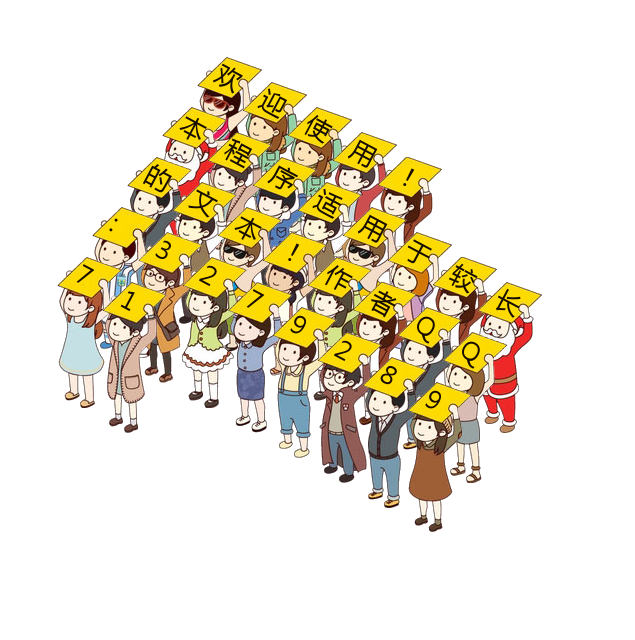
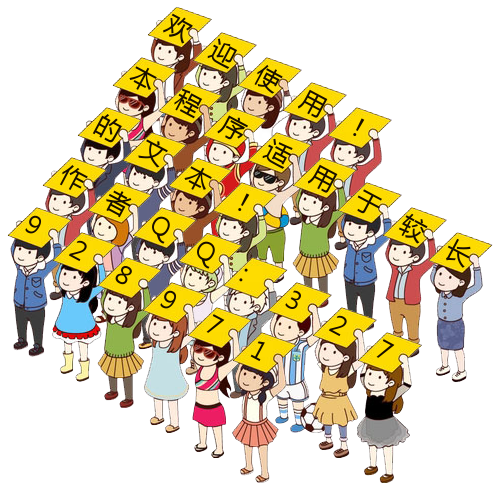
2.0.3.2202

diff --git a/index.php b/index.php
@@ -9,9 +9,10 @@
 // | Author: Jokin <327928971@qq.com>
 // +----------------------------------------------------------------------
 /*
-** Version: 2.0.3.2104
+** Version: 2.0.3.2202
 ** Issue:
-**      1、修正画布高度算法
+**      1、修正画布高度、宽度算法
+**      2、优化代码布局
 */
 if( isset($_POST['t']) && !empty($_POST['t']) ){
   define("IS_DEBUG",false);  // 是否开启调试模式
@@ -21,94 +22,93 @@ if( isset($_POST['t']) && !empty($_POST['t']) ){
     header('Content-Type: image/png;');
   }
   // 用户设置
-    $text = $_POST['t'];   // 欲输出文本
+  $text = $_POST['t'];   // 欲输出文本
   //动态设置
-    $col = 8;                       // 每行最高数量
-    $offset_left = 0;
-    $offset_right = 0;
-    $offset_top = 0;
-    $offset_bottom = 0;
-    $in_h = 25;                                 // 高度差（垂直偏移）
-    $in_w = 35;                                 // 宽度差（水平偏移）
-    $font = 'fonts/msyh.ttf';
+  $col = 8;                       // 每行最高数量
+  $offset_left = 0;
+  $offset_right = 0;
+  $offset_top = 0;
+  $offset_bottom = 0;
+  $in_h = 25;                                 // 高度差（垂直偏移）
+  $in_w = 35;                                 // 宽度差（水平偏移）
+  $font = 'fonts/msyh.ttf';
   // 算法
-    $strlen = mb_strlen(str_replace(EOF,"",$text),"utf-8"); // 计算文本长度
-    $text = explode(EOF,$text);
-    $row = getrow($text,$col);                      // 计算真实行数
-    $inverse_h = 165-$in_h;
-    $inverse_w = 80-$in_w;
+  $strlen = mb_strlen(str_replace(EOF,"",$text),"utf-8"); // 计算文本长度
+  $text = explode(EOF,$text);
+  $row = getrow($text,$col);                      // 计算真实行数
+  $inverse_h = 165-$in_h;
+  $inverse_w = 80-$in_w;
   // 创建主画布
-    // $img_w = $offset_left+$offset_right                                         // offset
-    //         +80+($col-1)*$inverse_w
-    //         +($row-1)*$in_w;
-    // ;
-    $img_p = getwidthAheight($row,$col,$in_w,$in_h,$inverse_w,$inverse_h,$offset_left,$offset_top,$text);
-    $img_w = $img_p['w'] + 80;
-    // $img_r = mb_strlen( end($text), "utf-8" ) % $col;
-    // $img_h_fix = $img_r == 0 ? 0 : ($col - $img_r)*$in_h;
-    // $img_h = $offset_top+$offset_bottom                                         // offset
-    //         +165+($col-1)*$in_h
-    //         +($row-1)*$in_h*2
-    //         -$img_h_fix;
-    // ;
-    $img_h = $img_p['h'] + 165;
-  //创建画布
-    $image = imagecreatetruecolor($img_w,$img_h);
-  //画布背景
-    imagefill($image,0,0,imagecolorAllocate($image,255,255,255));
+  // $img_w = $offset_left+$offset_right                                         // offset
+  //         +80+($col-1)*$inverse_w
+  //         +($row-1)*$in_w;
+  // ;
+  $img_p = getwidthAheight($row,$col,$in_w,$in_h,$inverse_w,$inverse_h,$offset_left,$offset_top,$text);
+  $img_w = $img_p['w'] + 80 + $offset_right;
+  // $img_r = mb_strlen( end($text), "utf-8" ) % $col;
+  // $img_h_fix = $img_r == 0 ? 0 : ($col - $img_r)*$in_h;
+  // $img_h = $offset_top+$offset_bottom                                         // offset
+  //         +165+($col-1)*$in_h
+  //         +($row-1)*$in_h*2
+  //         -$img_h_fix;
+  // ;
+  $img_h = $img_p['h'] + 165 + $offset_bottom;
+  // 创建画布
+  $image = imagecreatetruecolor($img_w,$img_h);
+  // 画布背景
+  imagefill($image,0,0,imagecolorAllocate($image,255,255,255));
   // 设置透明
-    imagecolortransparent($image,imagecolorAllocateAlpha($image,255,255,255,127));
+  imagecolortransparent($image,imagecolorAllocateAlpha($image,255,255,255,127));
   //字牌文本颜色
-    $str_color = imagecolorAllocate($image,24,14,0);
+  $str_color = imagecolorAllocate($image,24,14,0);
   // 算法调整器
-    $fix_row = 0;
-    $fix_strlen = 0;
-    $fix_n = 0;
-    fixer($fix_row ,$fix_strlen ,$fix_n);  //调整器初始化
-    $in_col = 0;
-    $in_row = 1;
-    // 创建文字到主画布
-    for ($i=1; $i < $strlen+1; $i++) {
+  $fix_row = 0;
+  $fix_strlen = 0;
+  $fix_n = 0;
+  fixer($fix_row ,$fix_strlen ,$fix_n);  //调整器初始化
+  $in_col = 0;
+  $in_row = 1;
+  // 创建文字到主画布
+  for ($i=1; $i < $strlen+1; $i++) {
     // 获取char
-      $char = getchar($text,$i,$fix_row,$fix_strlen,$fix_n);
+    $char = getchar($text,$i,$fix_row,$fix_strlen,$fix_n);
     // 判断列位置
-      $in_col ++ ;
-      if($in_col == 9 && $fix_n != 1){
-        $in_col = 1;
-        $in_row++;
-      }
+    $in_col ++ ;
+    if($in_col == 9 && $fix_n != 1){
+      $in_col = 1;
+      $in_row++;
+    }
     // 动态调整列位置
-      if($fix_n == 1){
-        $in_col = 1;
-        $fix_n = 0;
-        $in_row ++;
-      }
+    if($fix_n == 1){
+      $in_col = 1;
+      $fix_n = 0;
+      $in_row ++;
+    }
     // 创建文字画布
-      $image_in = createTextImg($char ,$str_color ,$font);
+    $image_in = createTextImg($char ,$str_color ,$font);
     //随机背景颜色
-      //imagefill($image_in,0,0,imagecolorAllocate($image_in,rand(0,255),rand(0,255),rand(0,255)));
-      // $tl_left = ($row-$in_row)*$in_w;  //左·行偏移量
-      // $te_left = ($in_col-1)*$inverse_w;  //左·单个偏移
-      // $te_top = ($in_col-1)*$in_h+($in_row-1)*2*$in_h; //上·单个偏移
-      // // x轴位置：左留空值+左行动态偏移+左列动态偏移
-      // $x = $offset_left+$tl_left+$te_left;
-      // // y轴位置：顶留空值+顶列动态偏移
-      // $y = $offset_top+$te_top;
-      $position = getposition($row,$col,$in_w,$in_h,$inverse_w,$inverse_h,$offset_left,$offset_top,$in_row,$in_col);
-      $x = $position['x'];
-      $y = $position['y'];
+    //imagefill($image_in,0,0,imagecolorAllocate($image_in,rand(0,255),rand(0,255),rand(0,255)));
+    // $tl_left = ($row-$in_row)*$in_w;  //左·行偏移量
+    // $te_left = ($in_col-1)*$inverse_w;  //左·单个偏移
+    // $te_top = ($in_col-1)*$in_h+($in_row-1)*2*$in_h; //上·单个偏移
+    // // x轴位置：左留空值+左行动态偏移+左列动态偏移
+    // $x = $offset_left+$tl_left+$te_left;
+    // // y轴位置：顶留空值+顶列动态偏移
+    // $y = $offset_top+$te_top;
+    $position = getposition($row,$col,$in_w,$in_h,$inverse_w,$inverse_h,$offset_left,$offset_top,$in_row,$in_col);
+    $x = $position['x'];
+    $y = $position['y'];
     // 复制文字画布到主画布
-      imagecopy($image,$image_in,$x,$y,0,0,80,165);
+    imagecopy($image,$image_in,$x,$y,0,0,80,165);
     // 释放临时资源
-      imagedestroy($image_in);
-      if( IS_DEBUG == true){
-        imagepng($image,"./test/{$i}.png");
-      }
+    imagedestroy($image_in);
+    if( IS_DEBUG == true){
+      imagepng($image,"./test/{$i}.png");
     }
-    if( IS_DEBUG == false){
-      imagepng($image);
-    }
-
+  }
+  if( IS_DEBUG == false){
+    imagepng($image);
+  }
 
 } else {
 
@@ -195,25 +195,30 @@ if( isset($_POST['t']) && !empty($_POST['t']) ){
   function getwidthAheight($row,$col,$in_w,$in_h,$inverse_w,$inverse_h,$offset_left,$offset_top,$text){
     $width = 0;  // 最宽值
     $height = 0; // 最高值
-    $l = 0;     // 当前行
-    $p = 0;     // 当前位置
+    $l = 1;     // 当前行
+    $p = 1;     // 当前位置
     for($i = 0; $i < count($text); $i++){
       $sl = mb_strlen($text[$i],"utf-8");  // 当前array[i]中的文本长度
       // 基本行数计算
       $temp_l = ceil($sl/$col);  // 增加行数
+      // 高级行数计算
+      $p = $sl % $col;
+      if( $p == 0 && !isset($text[$i]) ){
+        $temp_l -- ;
+      }
       // 位置判断
       if($temp_l == 1){
         $p = mb_strlen($text[$i],"utf-8");  //最大位置
-        $w = getposition($row,$col,$in_w,$in_h,$inverse_w,$inverse_h,$offset_left,$offset_top,$l + 1,$p);
+        $w = getposition($row,$col,$in_w,$in_h,$inverse_w,$inverse_h,$offset_left,$offset_top,$l,$p);
         if($w['x'] > $width){
           $width = $w['x'];
         }
         if($w['y'] > $height){
           $height = $w['y'];
         }
-      }else{
+      }else if($temp_l != 0){
         $p = 8;  //最大位置
-        $w = getposition($row,$col,$in_w,$in_h,$inverse_w,$inverse_h,$offset_left,$offset_top,$l + 1,$p);
+        $w = getposition($row,$col,$in_w,$in_h,$inverse_w,$inverse_h,$offset_left,$offset_top,$l,$p);
         if($w['x'] > $width){
           $width = $w['x'];
         }

diff --git a/source.php b/source.php
@@ -9,21 +9,21 @@
 // | Author: Jokin <327928971@qq.com>
 // +----------------------------------------------------------------------
 /*
-** Version: 2.0.3.2104
+** Version: 2.0.3.2202
 ** Issue:
-**      1、修正画布高度算法
+**      1、修正画布高度、宽度算法
+**      2、优化代码布局
 */
-// IO Laungher
-  // Notice:运营时请将Debug调至false！！！
+  /* Notice:运营时请将Debug调至false！！！ */
   define("IS_DEBUG",false);  // 是否开启调试模式
   define("EOF","\n");     // 定义换行符
   header("Content-Type: text/html; charset=utf-8");
   if( IS_DEBUG == false ){
     header('Content-Type: image/png;');
   }
-// 用户设置
-  $text = "123\n123\n1234567890\n1234567890";   // 欲输出文本
-//动态设置
+  // 用户设置
+  $text = "1234\n12345678\n12345678\n123456";   // 欲输出文本
+  //动态设置
   $col = 8;                       // 每行最高数量
   $offset_left = 0;
   $offset_right = 0;
@@ -32,19 +32,19 @@
   $in_h = 25;                                 // 高度差（垂直偏移）
   $in_w = 35;                                 // 宽度差（水平偏移）
   $font = 'fonts/msyh.ttf';
-// 算法
+  // 算法
   $strlen = mb_strlen(str_replace(EOF,"",$text),"utf-8"); // 计算文本长度
   $text = explode(EOF,$text);
   $row = getrow($text,$col);                      // 计算真实行数
   $inverse_h = 165-$in_h;
   $inverse_w = 80-$in_w;
-// 创建主画布
+  // 创建主画布
   // $img_w = $offset_left+$offset_right                                         // offset
   //         +80+($col-1)*$inverse_w
   //         +($row-1)*$in_w;
   // ;
   $img_p = getwidthAheight($row,$col,$in_w,$in_h,$inverse_w,$inverse_h,$offset_left,$offset_top,$text);
-  $img_w = $img_p['w'] + 80;
+  $img_w = $img_p['w'] + 80 + $offset_right;
   // $img_r = mb_strlen( end($text), "utf-8" ) % $col;
   // $img_h_fix = $img_r == 0 ? 0 : ($col - $img_r)*$in_h;
   // $img_h = $offset_top+$offset_bottom                                         // offset
@@ -52,16 +52,16 @@
   //         +($row-1)*$in_h*2
   //         -$img_h_fix;
   // ;
-  $img_h = $img_p['h'] + 165;
-//创建画布
+  $img_h = $img_p['h'] + 165 + $offset_bottom;
+  // 创建画布
   $image = imagecreatetruecolor($img_w,$img_h);
-//画布背景
+  // 画布背景
   imagefill($image,0,0,imagecolorAllocate($image,255,255,255));
-// 设置透明
+  // 设置透明
   imagecolortransparent($image,imagecolorAllocateAlpha($image,255,255,255,127));
-//字牌文本颜色
+  //字牌文本颜色
   $str_color = imagecolorAllocate($image,24,14,0);
-// 算法调整器
+  // 算法调整器
   $fix_row = 0;
   $fix_strlen = 0;
   $fix_n = 0;
@@ -70,23 +70,23 @@
   $in_row = 1;
   // 创建文字到主画布
   for ($i=1; $i < $strlen+1; $i++) {
-  // 获取char
+    // 获取char
     $char = getchar($text,$i,$fix_row,$fix_strlen,$fix_n);
-  // 判断列位置
+    // 判断列位置
     $in_col ++ ;
     if($in_col == 9 && $fix_n != 1){
       $in_col = 1;
       $in_row++;
     }
-  // 动态调整列位置
+    // 动态调整列位置
     if($fix_n == 1){
       $in_col = 1;
       $fix_n = 0;
       $in_row ++;
     }
-  // 创建文字画布
+    // 创建文字画布
     $image_in = createTextImg($char ,$str_color ,$font);
-  //随机背景颜色
+    //随机背景颜色
     //imagefill($image_in,0,0,imagecolorAllocate($image_in,rand(0,255),rand(0,255),rand(0,255)));
     // $tl_left = ($row-$in_row)*$in_w;  //左·行偏移量
     // $te_left = ($in_col-1)*$inverse_w;  //左·单个偏移
@@ -98,9 +98,9 @@
     $position = getposition($row,$col,$in_w,$in_h,$inverse_w,$inverse_h,$offset_left,$offset_top,$in_row,$in_col);
     $x = $position['x'];
     $y = $position['y'];
-  // 复制文字画布到主画布
+    // 复制文字画布到主画布
     imagecopy($image,$image_in,$x,$y,0,0,80,165);
-  // 释放临时资源
+    // 释放临时资源
     imagedestroy($image_in);
     if( IS_DEBUG == true){
       imagepng($image,"./test/{$i}.png");
@@ -189,25 +189,30 @@
   function getwidthAheight($row,$col,$in_w,$in_h,$inverse_w,$inverse_h,$offset_left,$offset_top,$text){
     $width = 0;  // 最宽值
     $height = 0; // 最高值
-    $l = 0;     // 当前行
-    $p = 0;     // 当前位置
+    $l = 1;     // 当前行
+    $p = 1;     // 当前位置
     for($i = 0; $i < count($text); $i++){
       $sl = mb_strlen($text[$i],"utf-8");  // 当前array[i]中的文本长度
       // 基本行数计算
       $temp_l = ceil($sl/$col);  // 增加行数
+      // 高级行数计算
+      $p = $sl % $col;
+      if( $p == 0 && !isset($text[$i]) ){
+        $temp_l -- ;
+      }
       // 位置判断
       if($temp_l == 1){
         $p = mb_strlen($text[$i],"utf-8");  //最大位置
-        $w = getposition($row,$col,$in_w,$in_h,$inverse_w,$inverse_h,$offset_left,$offset_top,$l + 1,$p);
+        $w = getposition($row,$col,$in_w,$in_h,$inverse_w,$inverse_h,$offset_left,$offset_top,$l,$p);
         if($w['x'] > $width){
           $width = $w['x'];
         }
         if($w['y'] > $height){
           $height = $w['y'];
         }
-      }else{
+      }else if($temp_l != 0){
         $p = 8;  //最大位置
-        $w = getposition($row,$col,$in_w,$in_h,$inverse_w,$inverse_h,$offset_left,$offset_top,$l + 1,$p);
+        $w = getposition($row,$col,$in_w,$in_h,$inverse_w,$inverse_h,$offset_left,$offset_top,$l,$p);
         if($w['x'] > $width){
           $width = $w['x'];
         }
